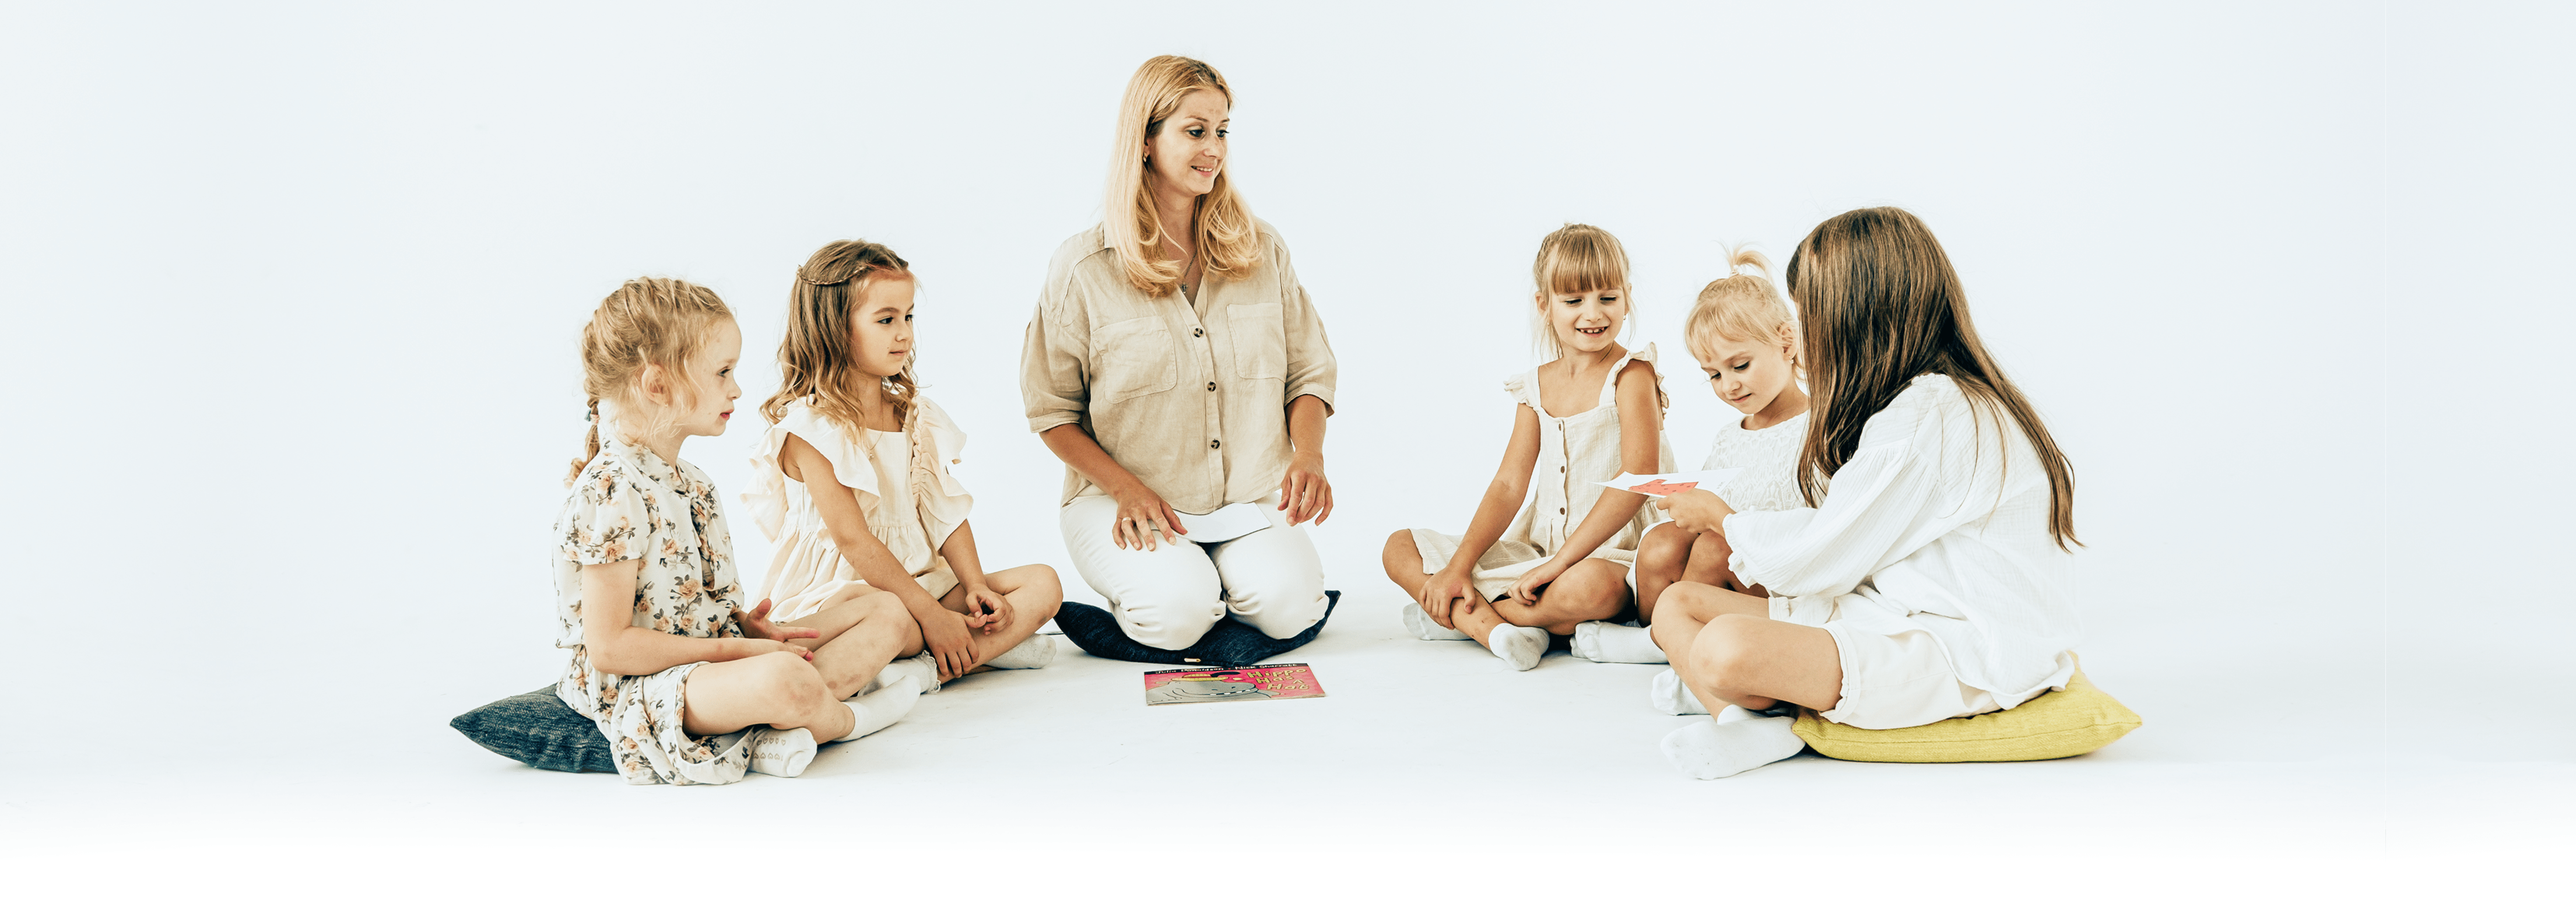
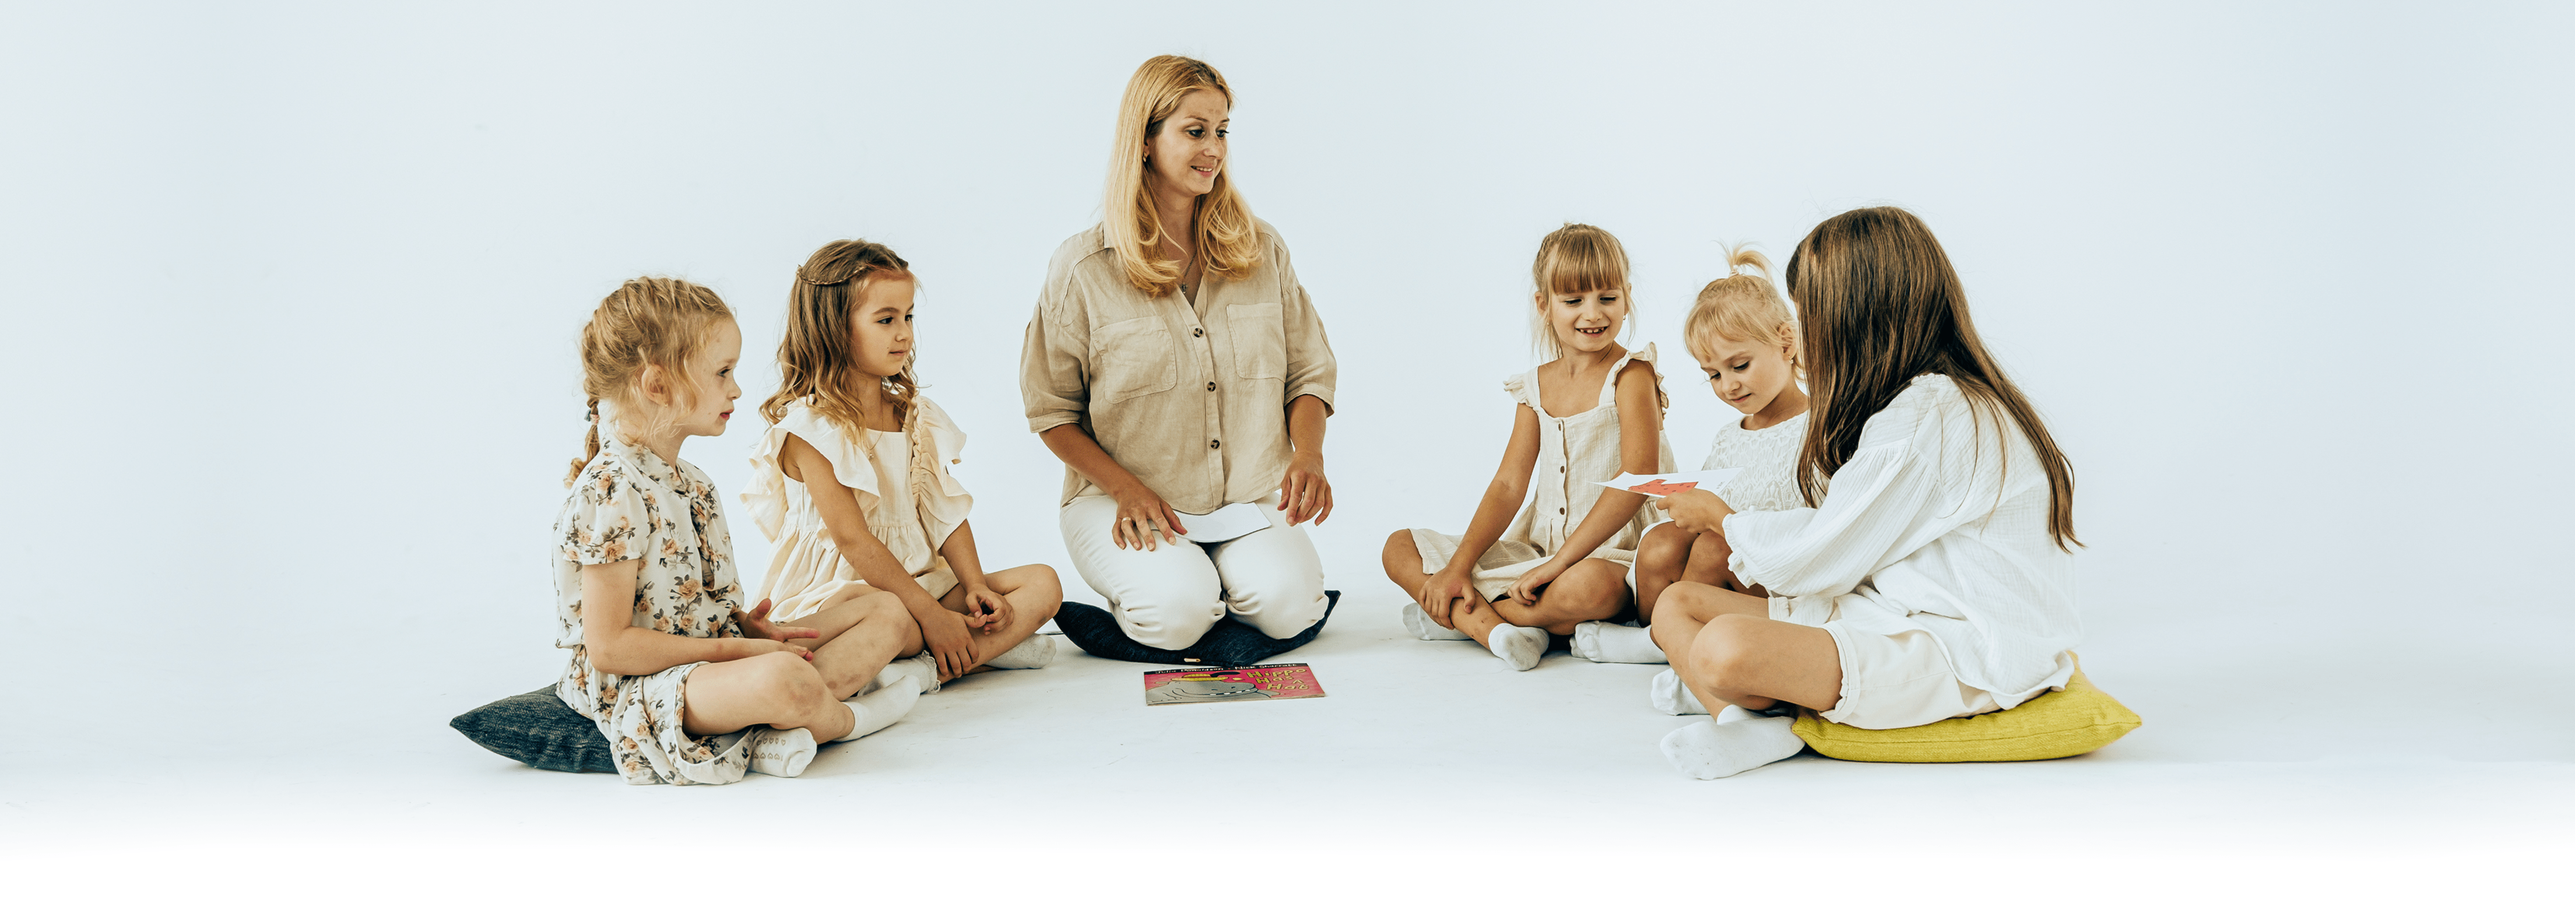
Header updates

Changed region(s): [[0.1562, 0.0623, 0.8436, 0.8722]]

diff --git a/src/components/AppHeader.vue b/src/components/AppHeader.vue
@@ -7,6 +7,7 @@
     </button>
 
     <nav class="header__navbar" :class="{ open: menuOpen }">
+      <img src="/icons/logo.png" alt="clover logo" class="header__logo" />
       <a
         v-for="(item, index) in menuItems"
         :key="index"
@@ -53,10 +54,15 @@ function toggleMenu() {
     width: 40px;
     object-fit: cover;
     margin-right: 40px;
+
+    @media (max-width: 660px) {
+      display: none;
+    }
   }
 
   &__navbar {
     display: flex;
+    align-items: center;
     gap: 30px;
     padding-left: 20px;
 
@@ -150,6 +156,7 @@ function toggleMenu() {
       }
 
       a {
+        width: 100%;
         padding: 16px 20px;
         border-bottom: 1px solid #eee;
       }

diff --git a/src/components/AppContacts.vue b/src/components/AppContacts.vue
@@ -16,7 +16,7 @@
           <a href="tel:+375259964261" class="text">+375 25 966-42-61</a>
         </div>
       </div>
-      <img src="/photo/clover.jpg" class="app-contacts__clover" alt="clover" />
+      <img src="/photo/clover.png" class="app-contacts__clover" alt="clover" />
 
     </div>
     <div class="app-contacts__photos">

diff --git a/src/views/MainPage.vue b/src/views/MainPage.vue
@@ -346,6 +346,11 @@ const activeFormType = ref('lesson');
   }
 
   &__promo-digit {
+    display: flex;
+    justify-content: center;
+    flex-direction: column;
+    align-items: center;
+
     @media (max-width: 660px) {
       width: fit-content;
     }
